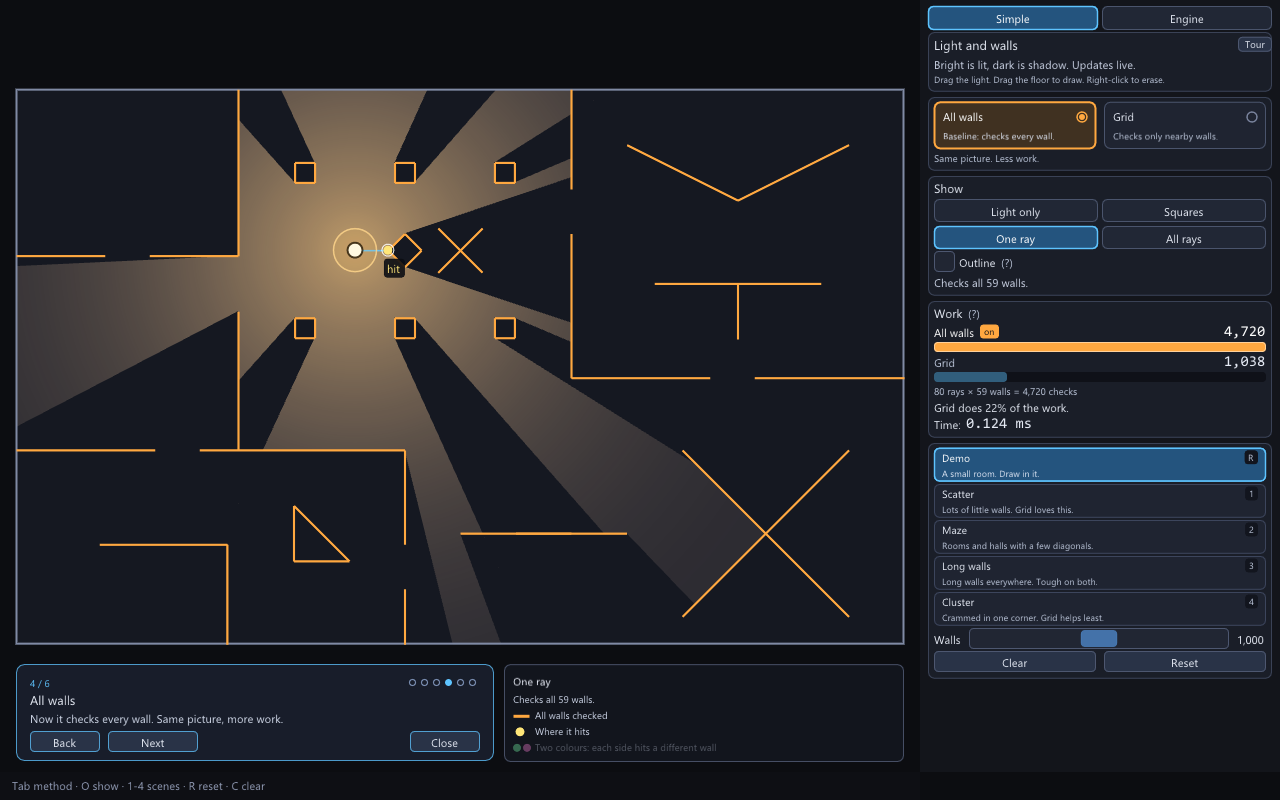
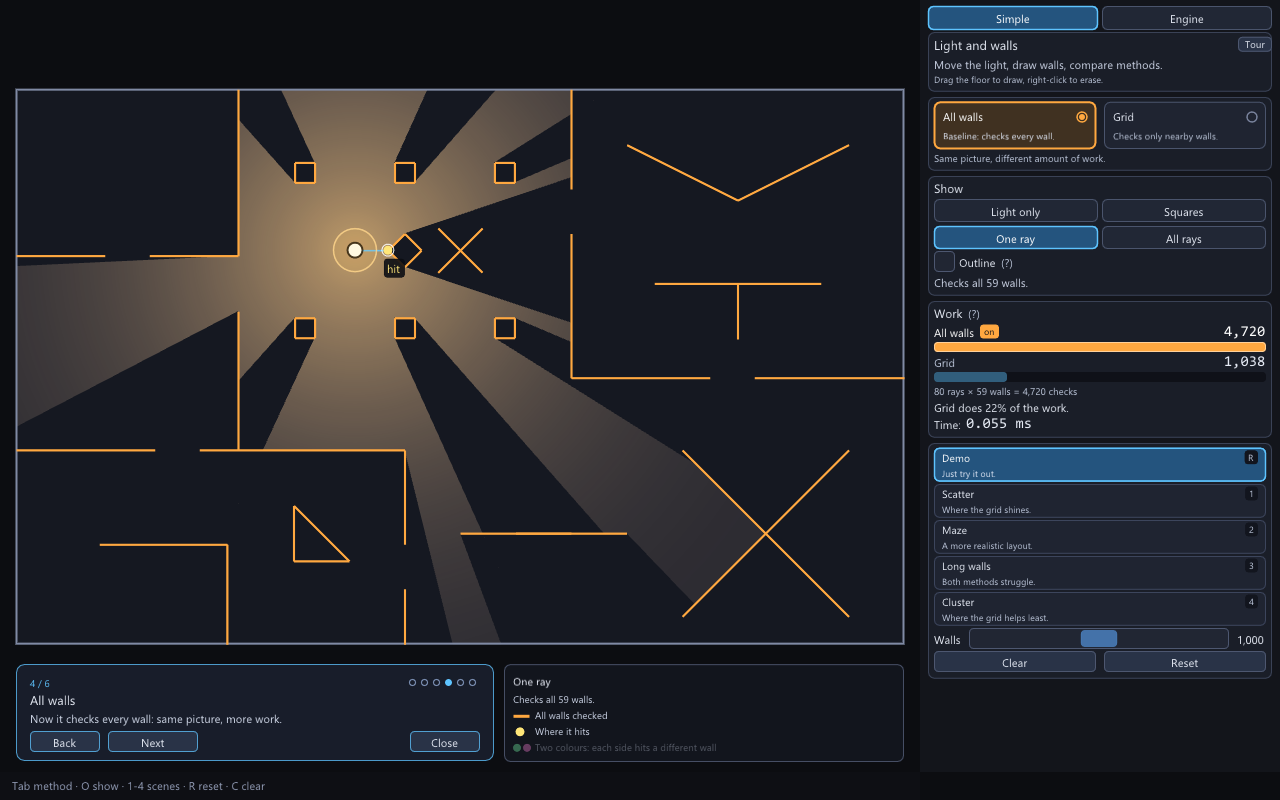
Reword text around purpose, one phrase each

diff --git a/app/widgets.cpp b/app/widgets.cpp
@@ -60,36 +60,36 @@ std::string fmtMs(double us) {
 
 namespace gloss {
 const char* const ray =
-    "A line from the light through a wall end or crossing. Where it hits becomes a corner of the lit area.";
+    "A line from the light through a wall end or crossing; where it hits becomes a corner of the lit area.";
 const char* const target =
-    "A wall end or crossing. Each gets a ray; ones in the same direction share.";
+    "A wall end or crossing; each gets a ray, shared if they line up.";
 const char* const crossing =
-    "Where two walls cross. The lit area can change shape there.";
+    "Where two walls cross; the lit area can change shape there.";
 const char* const wallTest =
-    "One ray checked against one wall. The meter counts these.";
+    "One ray checked against one wall; the meter counts these.";
 const char* const square =
-    "One square of the grid. It lists the walls touching it, and a ray only checks those.";
+    "One square of the grid, listing the walls touching it.";
 const char* const outlinePoints =
     "The corners of the lit area's outline (the visibility polygon).";
 const char* const sortCast =
-    "Sort: put targets in angle order. Cast: shoot each ray and build the outline.";
+    "Sort puts targets in angle order; cast shoots each ray and builds the outline.";
 const char* const editCost =
-    "Adding or removing a wall rebuilds the grid, crossings and targets. You pay once per edit.";
+    "An edit rebuilds the grid, crossings and targets, once per edit.";
 const char* const compare =
-    "Runs both methods every update and checks the results match. Doubles the work.";
+    "Runs both methods every update and checks they match, doubling the work.";
 const char* const frame =
-    "Time for a whole frame, drawing included. Capped by vsync.";
+    "The whole frame, drawing included; capped by vsync.";
 const char* const query =
-    "Median of the last 60 updates (sort + cast). Leaves out drawing, overlays and the meter's extra pass.";
+    "Median of the last 60 updates (sort + cast), without drawing, overlays or the meter's extra pass.";
 const char* const walls = "Your walls plus the 4 outer ones.";
-const char* const cellsWalked = "Squares the rays passed through, added up. Always 0 for All walls.";
+const char* const cellsWalked = "Squares the rays passed through, added up; always 0 for All walls.";
 const char* const registrations = "Every wall is listed in each square it touches. This is the total of those listings.";
 const char* const tMinus =
     "How far along the ray (1 = the target) the nearest wall is, going clockwise.";
 const char* const tPlus = "Same, going counter-clockwise.";
 const char* const meter =
-    "One check = one ray against one wall. All walls: rays × walls, exactly. Grid: counted at this light "
-    "spot. Both bars share a scale.";
+    "One check is one ray against one wall. All walls is rays × walls, Grid is counted at this light "
+    "spot, and both bars share a scale.";
 const char* const baseline = "Baseline: every ray checks every wall.";
 const char* const grid =
     "Grid: a ray only checks walls in the squares it passes.";

diff --git a/app/ui.cpp b/app/ui.cpp
@@ -39,10 +39,10 @@ void explainerCard(App& app) {
         ImGui::PopStyleVar();
     }
     cardText(IM_COL32(204, 212, 230, 255),
-             "Bright is lit, dark is shadow. Updates live.");
+             "Move the light, draw walls, compare methods.");
     {
         FontScope f(app, 12.0f);
-        cardText(kTextDim, "Drag the light. Drag the floor to draw. Right-click to erase.");
+        cardText(kTextDim, "Drag the floor to draw, right-click to erase.");
     }
     cardEnd(app);
 }
@@ -54,7 +54,7 @@ void methodCard(App& app) {
     const ImU32 accents[] = {kAmber, kCyan};
     const int clicked = methodCards(app, titles, subs, accents, 2, app.mode == vis::Mode::Brute ? 0 : 1);
     if (clicked >= 0) app.setMode(clicked == 0 ? vis::Mode::Brute : vis::Mode::Grid);
-    cardTextSmall(app, kTextDim, "Same picture. Less work.");
+    cardTextSmall(app, kTextDim, "Same picture, different amount of work.");
     cardEnd(app);
 }
 
@@ -87,7 +87,7 @@ void scenesCard(App& app) {
     ImGui::SetNextItemWidth(cardWidth() - capW - valW - 2.0f * sp);
     if (ImGui::SliderInt("##walls", &idx, 0, kWallStopCount - 1, " ", ImGuiSliderFlags_NoInput)) app.stressWalls = kWallStops[idx];
     const bool slid = ImGui::IsItemDeactivatedAfterEdit();
-    tooltip("How many walls to generate (100-5,000). Let go to rebuild.");
+    tooltip("Walls to generate (100-5,000), rebuilt on release.");
     if (slid && app.kind != vis::SceneKind::Demo) app.loadScene(app.kind);
 
     ImGui::SameLine();
@@ -95,10 +95,10 @@ void scenesCard(App& app) {
     ImGui::TextUnformatted(fmtInt(static_cast<std::uint64_t>(app.stressWalls)).c_str());
     const float half = (cardWidth() - sp) * 0.5f;
     if (button(app, "Clear", {half, 0})) app.clearWalls();
-    tooltip("Wipe all walls. Key: C");
+    tooltip("Wipe all walls (C).");
     ImGui::SameLine();
     if (button(app, "Reset", {half, 0})) app.resetDemo();
-    tooltip("Back to the demo. Key: R");
+    tooltip("Back to the demo (R).");
 
     if (app.detail == Detail::Engine) {
         ImGui::AlignTextToFramePadding();

diff --git a/app/app.cpp b/app/app.cpp
@@ -23,11 +23,11 @@ const char* overlayName(Overlay o) {
 
 namespace {
 const SceneInfo kSceneInfos[] = {
-    {vis::SceneKind::Demo, "Demo", "A small room. Draw in it.", "R"},
-    {vis::SceneKind::Scatter, "Scatter", "Lots of little walls. Grid loves this.", "1"},
-    {vis::SceneKind::Maze, "Maze", "Rooms and halls with a few diagonals.", "2"},
-    {vis::SceneKind::LongWalls, "Long walls", "Long walls everywhere. Tough on both.", "3"},
-    {vis::SceneKind::Cluster, "Cluster", "Crammed in one corner. Grid helps least.", "4"},
+    {vis::SceneKind::Demo, "Demo", "Just try it out.", "R"},
+    {vis::SceneKind::Scatter, "Scatter", "Where the grid shines.", "1"},
+    {vis::SceneKind::Maze, "Maze", "A more realistic layout.", "2"},
+    {vis::SceneKind::LongWalls, "Long walls", "Both methods struggle.", "3"},
+    {vis::SceneKind::Cluster, "Cluster", "Where the grid helps least.", "4"},
 };
 std::string wallsPhrase(std::size_t n) { return ui::fmtInt(n) + (n == 1 ? " wall" : " walls"); }
 }  // namespace
@@ -463,12 +463,12 @@ std::string App::slowNote() const {
 
 std::string App::overlayCaption() const {
     switch (overlay) {
-        case Overlay::Off: return "Just the lit area.";
+        case Overlay::Off: return "Just the result.";
         case Overlay::Grid:
             if (mode == vis::Mode::Brute)
-                return "All walls has no grid. Lines are rays.";
+                return "No grid here; lines are rays.";
             return std::to_string(scene.grid().cols()) + " x " + std::to_string(scene.grid().rows()) +
-                   " squares. Brighter squares saw more rays.";
+                   " squares; brighter ones see more rays.";
         case Overlay::Probe: {
             const vis::Trace::RayRecord* r = probe();
             if (!r) return "Hover over the room to pick a ray.";

diff --git a/app/tour.cpp b/app/tour.cpp
@@ -21,22 +21,22 @@ struct TourStep {
 
 const TourStep kSteps[kTourSteps] = {
     {"Move the light",
-     "Drag the light around. The bright area follows it.",
+     "Drag the light around.",
      vis::SceneKind::Demo, false, vis::Mode::Grid, Overlay::Off},
     {"Draw walls",
-     "Drag on the floor to draw. Right-click a wall to erase it.",
+     "Drag on the floor to draw, right-click a wall to erase.",
      vis::SceneKind::Demo, false, vis::Mode::Grid, Overlay::Off},
     {"One ray",
-     "Hover to pick a ray. Orange walls are the ones it checked.",
+     "Hover to pick a ray; orange walls are the only ones it checked.",
      vis::SceneKind::Demo, false, vis::Mode::Grid, Overlay::Probe},
     {"All walls",
-     "Now it checks every wall. Same picture, more work.",
+     "Now it checks every wall: same picture, more work.",
      vis::SceneKind::Demo, false, vis::Mode::Brute, Overlay::Probe},
     {"More walls",
-     "1,000 walls. Watch the meter: Grid does a fraction of the work.",
+     "With 1,000 walls the grid does a fraction of the work.",
      vis::SceneKind::Scatter, true, vis::Mode::Grid, Overlay::Off},
     {"Worst case",
-     "Everything bunched in one corner. Grid helps less. Poke around.",
+     "Everything is bunched in one corner, so the grid helps less.",
      vis::SceneKind::Cluster, true, vis::Mode::Grid, Overlay::Off},
 };
 
@@ -137,7 +137,7 @@ void App::drawTourCard() {
     ImGui::SameLine();
     ImGui::SetCursorPosX(left + inner - 70.0f * ui);
     if (button(*this, "Close", {70.0f * ui, 0})) tourClose();
-    tooltip("Esc closes. “Tour” in the panel reopens.");
+    tooltip("Esc closes; Tour reopens.");
 
     tourCardMin = ImGui::GetWindowPos();
     const ImVec2 sz = ImGui::GetWindowSize();

diff --git a/app/details.cpp b/app/details.cpp
@@ -60,7 +60,7 @@ void compareTable(App& app) {
     ImGui::SameLine();
     ImGui::TextColored(app.identical ? ImVec4(0.45f, 0.9f, 0.55f, 1) : ImVec4(1, 0.4f, 0.4f, 1), app.identical ? "yes" : "NO");
     cardTextSmall(app, kTextDim,
-                  "Both run on every update, timed separately. Overlay and meter passes don't count.");
+                  "Both run every update, timed separately; overlay and meter passes don't count.");
 }
 
 }  // namespace

diff --git a/docs/APP.md b/docs/APP.md
@@ -30,19 +30,19 @@ Top to bottom:
 
 | Section | What it holds |
 |---|---|
-| "Light and walls" | "Bright is lit, dark is shadow. Updates live.", the hint "Drag the light. Drag the floor to draw. Right-click to erase.", and a "Tour" button |
-| Method cards | **All walls** ("Baseline: checks every wall.") is the Baseline back end: every ray is tested against every wall. It's called Baseline in the first version of the interface, the benchmark and these documents, and `Brute` in the code and `--mode brute`. **Grid** ("Checks only nearby walls.") is the Grid back end: a ray only tests the walls in the grid squares it crosses. Under the cards: "Same picture. Less work." Both give exactly the same picture. The card in use is highlighted |
+| "Light and walls" | "Move the light, draw walls, compare methods.", the hint "Drag the floor to draw, right-click to erase.", and a "Tour" button |
+| Method cards | **All walls** ("Baseline: checks every wall.") is the Baseline back end: every ray is tested against every wall. It's called Baseline in the first version of the interface, the benchmark and these documents, and `Brute` in the code and `--mode brute`. **Grid** ("Checks only nearby walls.") is the Grid back end: a ray only tests the walls in the grid squares it crosses. Under the cards: "Same picture, different amount of work." Both give exactly the same picture. The card in use is highlighted |
 | Show | **Light only** (overlay `off`), **Squares** (`grid`, formerly "Grid cells": squares tinted by how many rays crossed them), **One ray** (`probe`, formerly "Probe ray": the ray nearest the cursor, the squares it crossed and the walls it tested), **All rays** (`rays`). A caption under the choice describes what's on screen in one live sentence (see below). "Outline" (formerly "Outline visibility polygon") draws the edge of the lit region, the visibility polygon. In Engine the probe's numbers are listed here: squares crossed, walls tested "X of N", `tMinus`, `tPlus` |
 | Work | The work meter, [below](#the-work-meter) |
-| Scene cards | **Demo** (key `R`), **Scatter** (`1`), **Maze** (`2`), **Long walls** (`3`), **Cluster** (`4`), each with a one-line description (for example "Lots of little walls. Grid loves this."). The **Walls** slider picks 100, 250, 500, 1,000, 2,000, 3,000 or 5,000 walls for the generated scenes. Releasing it rebuilds the current generated scene (it does nothing to the demo room). Then **Clear** (`C`) and **Reset** (`R`). A short orange note appears under the cards when "All walls" would take about 30 ms or more per update in the current scene, for example "All walls is slow here: ~246 ms per update." |
+| Scene cards | **Demo** (key `R`), **Scatter** (`1`), **Maze** (`2`), **Long walls** (`3`), **Cluster** (`4`), each with a one-line description (for example "Where the grid shines."). The **Walls** slider picks 100, 250, 500, 1,000, 2,000, 3,000 or 5,000 walls for the generated scenes. Releasing it rebuilds the current generated scene (it does nothing to the demo room). Then **Clear** (`C`) and **Reset** (`R`). A short orange note appears under the cards when "All walls" would take about 30 ms or more per update in the current scene, for example "All walls is slow here: ~246 ms per update." |
 | Engine only | Numbers, Edit cost, Compare, Grid size and a key list, plus a Seed field under the scene cards ([below](#what-engine-adds)) |
 
 Live captions under Show:
 
 | Overlay | Example captions |
 |---|---|
-| Light only | "Just the lit area." |
-| Squares | "40 x 25 squares. Brighter squares saw more rays." (in All walls: "All walls has no grid. Lines are rays.") |
+| Light only | "Just the result." |
+| Squares | "40 x 25 squares; brighter ones see more rays." (in All walls: "No grid here; lines are rays.") |
 | One ray | "Hover over the room to pick a ray." / "Passes 2 squares, checks 12 of 59 walls." / "Checks all 59 walls." |
 | All rays | "78 rays, one per wall end or crossing." |
 

diff --git a/README.md b/README.md
@@ -57,7 +57,7 @@ Two levels, switched at the top of the panel: **Simple** (plain words) and **Eng
 | Scatter | Maze | Long walls | Cluster |
 |---|---|---|---|
 | ![Scatter](docs/images/stress_scatter_grid.png) | ![Maze](docs/images/stress_maze_grid.png) | ![Long walls](docs/images/stress_long_grid.png) | ![Cluster](docs/images/stress_cluster_grid.png) |
-| Grid loves it | Rooms and halls | Tough on both | Grid helps least |
+| Where the grid shines | A more realistic layout | Both methods struggle | Where the grid helps least |
 
 All screenshots are real captures at 1,000 walls (`tests/scripts/captures.script`).
 
